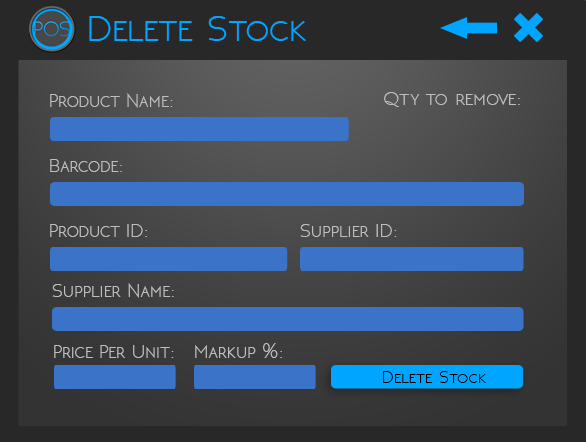
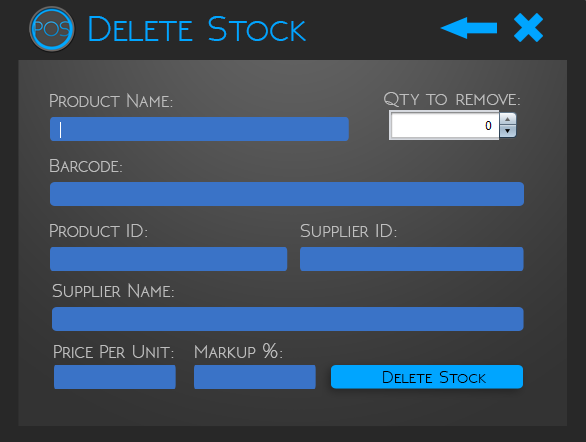
Remove Stock

Changed region(s): [[0.6451, 0.2353, 0.8908, 0.3235]]

diff --git a/screens/h_RemoveStock.md b/screens/h_RemoveStock.md
@@ -3,22 +3,15 @@ layout: page
 title: Remove Stock
 permalink: /removestock/
 ---
-![Manager Portal](http://i.imgur.com/VHhoYlJ.jpg)
+![Remove Stock](http://i.imgur.com/hUvrWmy.png)
 
 ##What is this screen?
-This screen is used for all administration features of the application. It has 6 main functions: 
-
-1. [Add new stock]
-2. [Order stock]
-3. [Remove Stock]
-4. [Receive delivery]
-5. [Print statements]
-6. [Add new supplier]
+In case of stock that has been stolen and/or has gone missing, the manager can use this form to remove stock from the database. This is an easy way to remove stock from the database with little to no effort.
 
 ##How do I use it?
-The user has to enter a password to access the application. This is done by clicking on the numbers on the right. If the user made a mistake when entering the password, they can click on the back button to clear the field. 
+This form is extremely straight forward to use. Simply enter the `Product Name` and the quantity you wish to remove (make sure the quantity is less than is available in the database), and click the `Delete Stock` button. The program will auto-complete the rest of the fields. 
 
+Click the `Permanently Delete` button to remove the stock from the database.  
 
-These are not the only functions of this screen. Like all of the other screens, when the user clicks on the logo at the top left corner, it takes you to [source code](https://github.com/iggnoreza/PointOfSaleSystem) of the application. 
-
-Another function that this screen has, like all the other screens, is the ablitiy to access the screen's project notes by clicking on the screen title at the top next to the POS logo.
+##Known Bugs
+If you prefer to enter the quantity value with the keyboard, be sure to press the `Enter` key on your keyboard after you entered the value. This is a bug with `JSpinners` that only take values after the `Enter` key has been pressed. 
